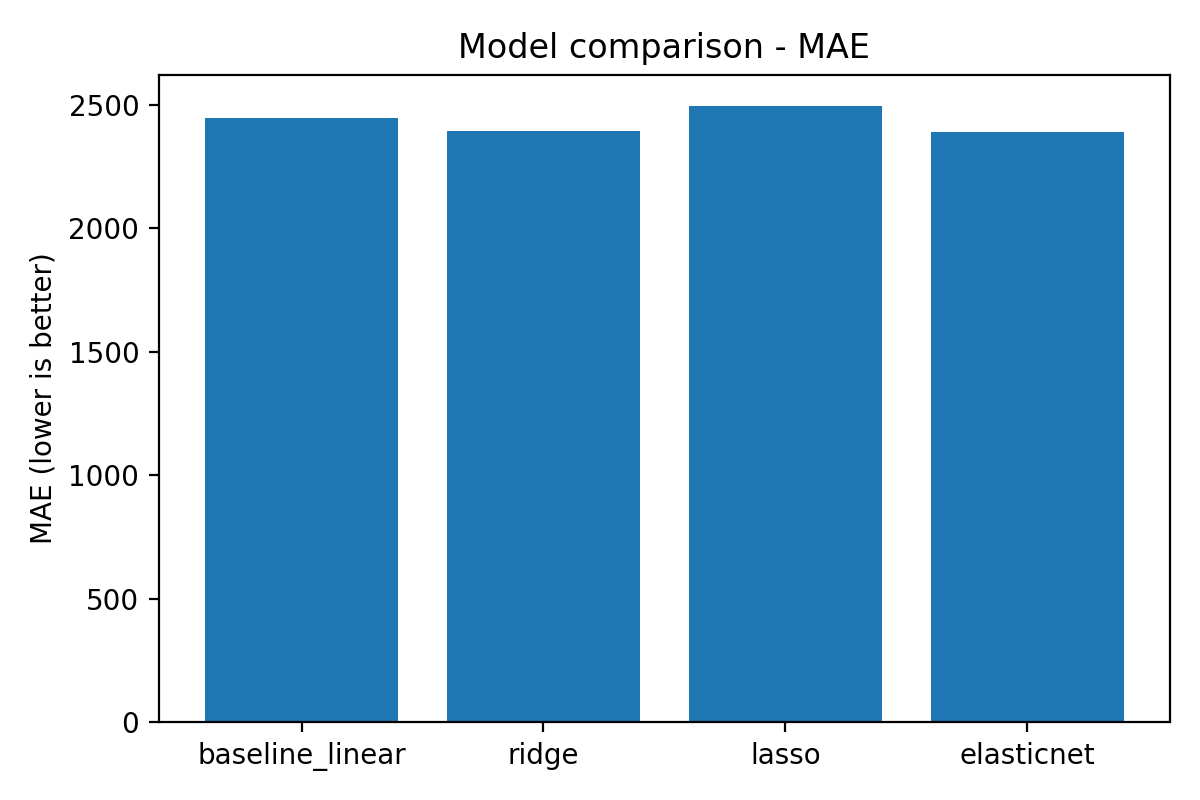
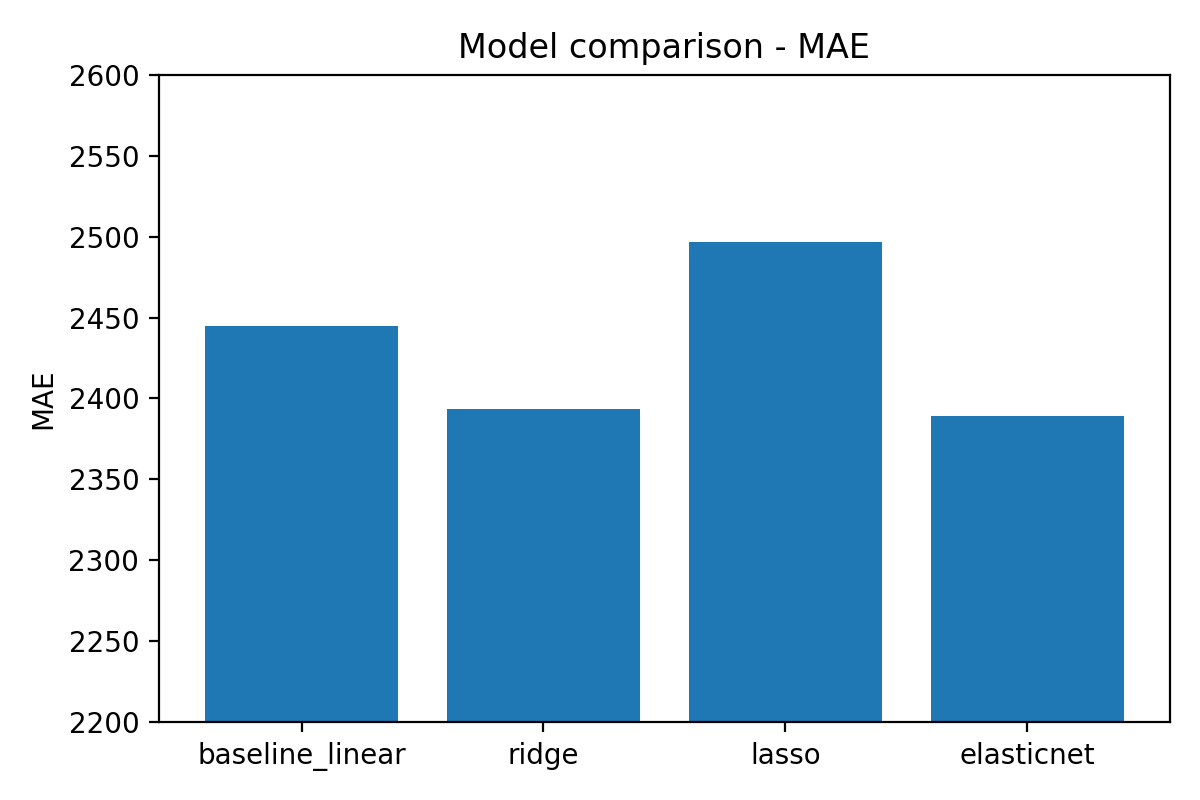
Update model comparison figures and adjust y-axis limits
- Modified y-axis labels for MAE, RMSE, and R² plots to remove "(lower is better)" and "(higher is better)" for clarity.
- Adjusted y-axis limits for MAE, RMSE, and R² plots to enhance visual representation.
- Saved updated figures to the 'figures/' directory.

diff --git a/main.py b/main.py
@@ -159,23 +159,29 @@ models_order = results_df.index.tolist()
 
 plt.figure(figsize=(6, 4))
 plt.bar(models_order, results_df["MAE"])
-plt.ylabel("MAE (lower is better)")
+plt.ylabel("MAE") #(lower is better)
 plt.title("Model comparison - MAE")
 plt.tight_layout()
+plt.ylim(2200, 2600)  # chỉnh y-axis cho dễ nhìn
+
 plt.savefig("figures/compare_MAE.png", dpi=200)
 
 plt.figure(figsize=(6, 4))
 plt.bar(models_order, results_df["RMSE"])
-plt.ylabel("RMSE (lower is better)")
+plt.ylabel("RMSE") #(lower is better)
 plt.title("Model comparison - RMSE")
 plt.tight_layout()
+plt.ylim(3400, 4200)  # chỉnh y-axis cho dễ nhìn
+
 plt.savefig("figures/compare_RMSE.png", dpi=200)
 
 plt.figure(figsize=(6, 4))
 plt.bar(models_order, results_df["R2"])
-plt.ylabel("R² (higher is better)")
+plt.ylabel("R²") # (higher is better)
 plt.title("Model comparison - R²")
 plt.tight_layout()
+plt.ylim(0.7, 0.9)  # chỉnh y-axis cho dễ nhìn
+
 plt.savefig("figures/compare_R2.png", dpi=200)
 
 print("\nAll figures saved to 'figures/' folder and metrics saved to 'model_metrics_val.csv'.")

diff --git a/README.md b/README.md
@@ -1,2 +1,9 @@
 # ML_Lab1_SalaryPrediction
 A Data Science project about applying Machine Learning models (Linear Regression) to predict the salary of someone
+
+# How to run
+1. Run preprocessing.ipynb to preprocess the raw data.
+2. Run check_data.py to understand the correlation between the features.
+3. Run draw_data.py to generate the correlation figures.
+4. Run search_for_best_params.py to find the best alpha and l1 ratio for the models.
+5. Finally run main.py to train the models.
